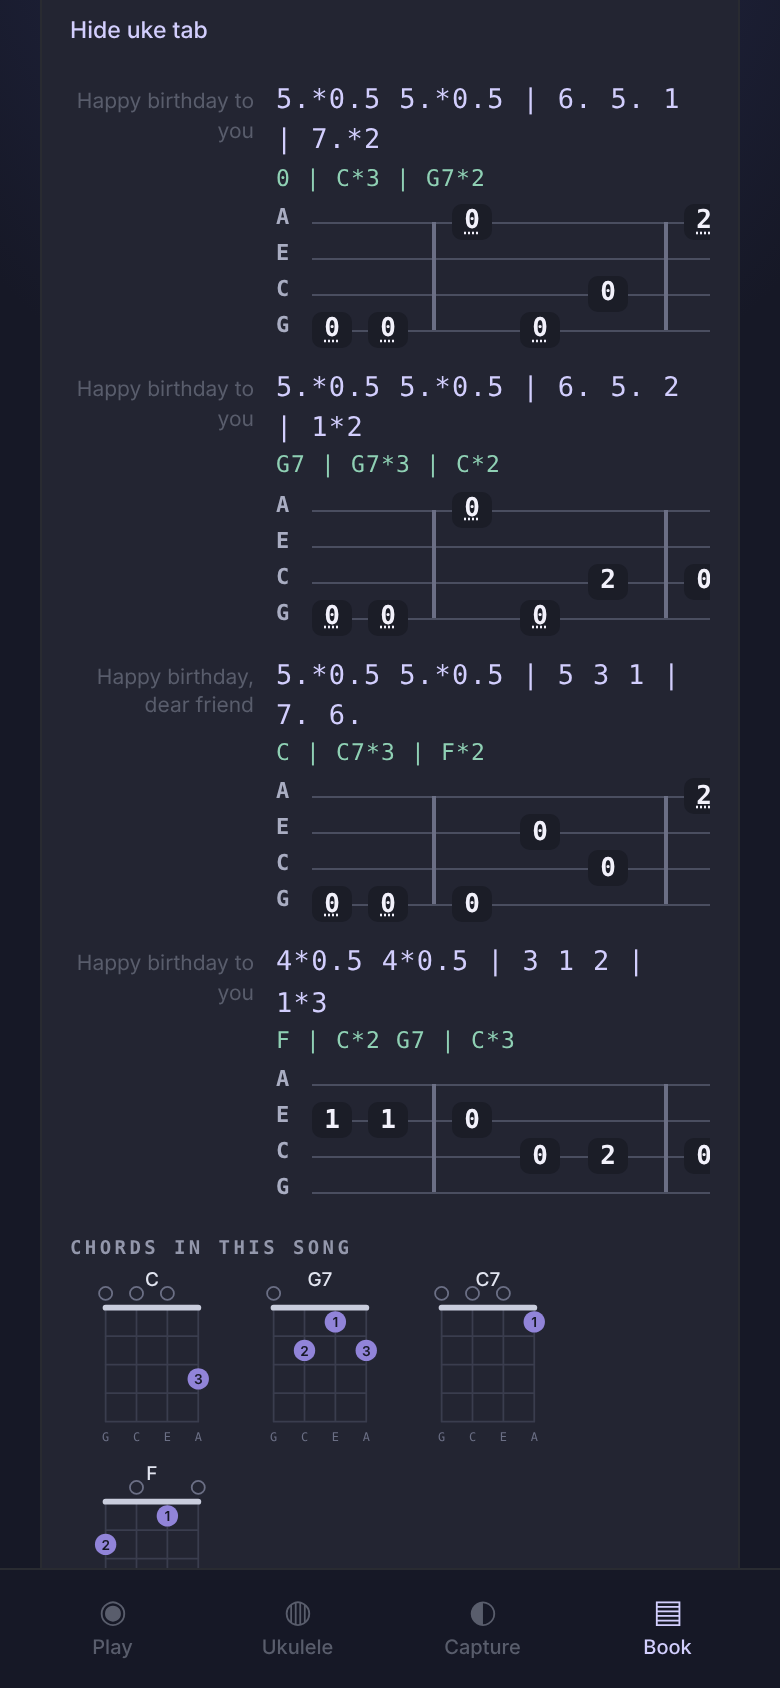
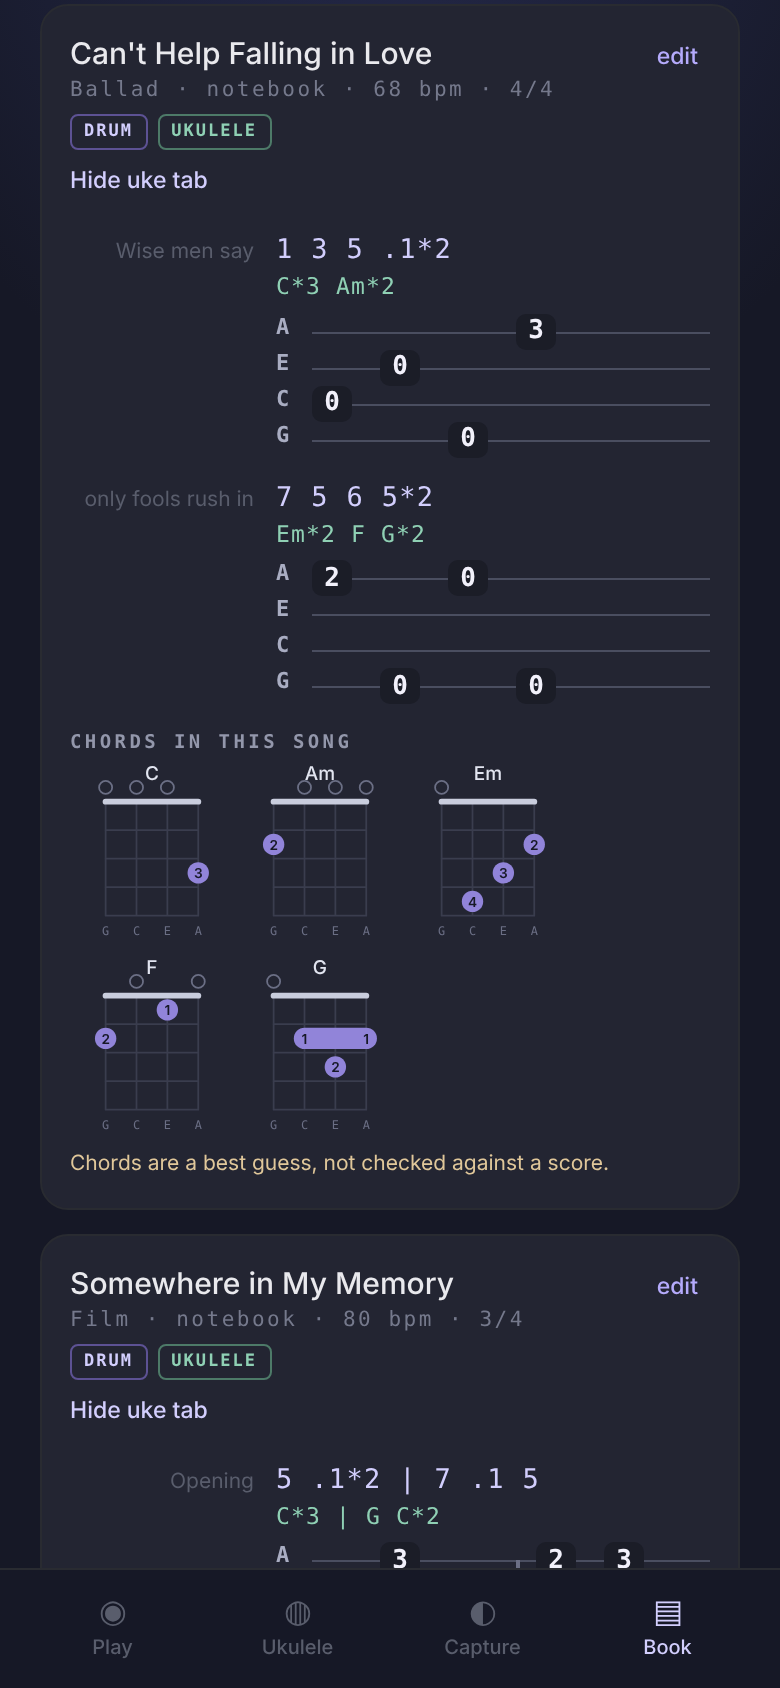
Chords for every song; best-guess chords marked; 'uke' tag becomes 'Chords' (#2)
- Chord lines for the 9 songs that had none. Folk/hymns: Old MacDonald,
  When the Saints, Scarborough Fair, Amazing Grace. Best guesses, flagged
  chordsGuess: Hedwig's Theme, Terminator, Low Rider, Can't Help Falling
  in Love, Somewhere in My Memory.
- Guessed chords show a 'Chords · guess' tag, sit under Needs fixing, and
  say so under the chord boxes and on the play-along.
- The 'uke' tag (has chords) is now 'Chords', and so is the filter. The
  works-on badges are unchanged.
- Tags wrap under the title, so flagged songs keep their title visible.
- Book > Arrangements lists every song, not the first four.
- Smoke test: every song has chords, guesses are marked, old tag gone.
- Screenshots updated; new songbook-chords.png.

diff --git a/index.html b/index.html
@@ -111,8 +111,8 @@ const BUILTIN=[
     L('Twinkle, twinkle, little star','1 1 5 5 | 6 6 5*2','C*4 | F*2 C*2'),L('How I wonder what you are','4 4 3 3 | 2 2 1*2','F*2 C*2 | G7*2 C*2'),
     L('Up above the world so high','5 5 4 4 | 3 3 2*2','C*2 F*2 | C*2 G7*2'),L('Like a diamond in the sky','5 5 4 4 | 3 3 2*2','C*2 F*2 | C*2 G7*2')]},
   {id:'macdonald',title:'Old MacDonald Had a Farm',cat:'Folk',level:1,bpm:96,meter:'4/4',stars:2,lines:[
-    L('Old MacDonald had a farm','1 1 1 5. | 6. 6. 5.*2'),L('E-I-E-I-O','3 3 2 2 | 1*2'),
-    L('And on that farm he had a cow','1 1 1 5. | 6. 6. 5.*2'),L('E-I-E-I-O','3 3 2 2 | 1*2')]},
+    L('Old MacDonald had a farm','1 1 1 5. | 6. 6. 5.*2','C*4 | F*2 C*2'),L('E-I-E-I-O','3 3 2 2 | 1*2','C*2 G7*2 | C*2'),
+    L('And on that farm he had a cow','1 1 1 5. | 6. 6. 5.*2','C*4 | F*2 C*2'),L('E-I-E-I-O','3 3 2 2 | 1*2','C*2 G7*2 | C*2')]},
   {id:'frere',title:'Frère Jacques',cat:'Round',level:1,bpm:100,meter:'4/4',stars:3,lines:[
     L('Frère Jacques','1 2 3 1','C*4'),L('Frère Jacques','1 2 3 1','C*4'),L('Dormez-vous?','3 4 5*2','C*4'),
     L('Sonnez les matines','5*.5 6*.5 5*.5 4*.5 3 1','C*4'),L('Ding, ding, dong','1 5. 1*2','C G7 C*2')]},
@@ -124,20 +124,20 @@ const BUILTIN=[
     L('Jingle bells, jingle bells','3 3 3*2 | 3 3 3*2','C*4 | C*4'),L('Jingle all the way','3 5 1 2 | 3*4','C*4 | C*4'),
     L('Oh what fun it is to ride','4 4 4 4 | 4 3 3 3*.5 3*.5','F*4 | C*4'),L('In a one-horse open sleigh','3 2 2 3 | 2*2 5*2','G7*4 | G7*4')]},
   {id:'saints',title:'When the Saints Go Marching In',cat:'Gospel',level:2,bpm:104,meter:'4/4',stars:2,lines:[
-    L('Oh when the saints','1 3 4 5*2'),L('go marching in','1 3 4 5*2'),L('Oh when the saints go marching in','5 5 4 3 | 3 2 1'),L('Oh how I want to be in that number','3 3 2 1 | 1*2 5*2')]},
+    L('Oh when the saints','1 3 4 5*2','C*5'),L('go marching in','1 3 4 5*2','C*5'),L('Oh when the saints go marching in','5 5 4 3 | 3 2 1','C*4 | C G7 C'),L('Oh how I want to be in that number','3 3 2 1 | 1*2 5*2','C*2 C7*2 | F*2 C*2')]},
   {id:'scarborough',title:'Scarborough Fair',cat:'Dorian folk',level:2,bpm:76,meter:'3/4',stars:1,lines:[
-    L('Are you going','2 2 2*2'),L('to Scarborough Fair','6 6 5 | 2*3'),L('Parsley, sage','4 3 2 | 1*3')]},
+    L('Are you going','2 2 2*2','Dm*4'),L('to Scarborough Fair','6 6 5 | 2*3','Dm*2 C | Dm*3'),L('Parsley, sage','4 3 2 | 1*3','F*3 | C*3')]},
   {id:'amazing',title:'Amazing Grace',cat:'Hymn',level:2,bpm:72,meter:'3/4',stars:2,flag:'adapted',lines:[
-    L('Amazing grace','5. 1*2 3*.5 1*.5 | 3*3'),L('how sweet the sound','2*3 | 1*2 5.'),L('that saved a wretch like me','5. 1*2 3*.5 1*.5 | 3*3')]},
+    L('Amazing grace','5. 1*2 3*.5 1*.5 | 3*3','C*4 | C*3'),L('how sweet the sound','2*3 | 1*2 5.','G7*3 | C*3'),L('that saved a wretch like me','5. 1*2 3*.5 1*.5 | 3*3','C*4 | C*3')]},
   // From the notebook, in A minor: E A C B A E' D' B. The answer lands on G
   // where the film has G sharp, which this drum does not have.
-  {id:'hedwig',title:"Hedwig's Theme",cat:'Film · notebook',level:3,bpm:88,meter:'3/4',pickup:1,stars:1,flag:'adapted',lines:[
-    L('Opening','3 | 6*1.5 .1*.5 7 | 6*2 .3 | .2*3 | 7*2'),L('Answer','3 | 6*1.5 .1*.5 7 | 6*2 5 | 3*3')]},
+  {id:'hedwig',title:"Hedwig's Theme",cat:'Film · notebook',level:3,bpm:88,meter:'3/4',pickup:1,stars:1,flag:'adapted',chordsGuess:true,lines:[
+    L('Opening','3 | 6*1.5 .1*.5 7 | 6*2 .3 | .2*3 | 7*2','0 | Am*3 | Am*3 | Dm*3 | E7*2'),L('Answer','3 | 6*1.5 .1*.5 7 | 6*2 5 | 3*3','0 | Am*3 | Am*2 G | Am*3')]},
   // The melody as the notebook has it; the rhythm is still a guess.
-  {id:'terminator',title:'Terminator theme',cat:'Film · notebook',level:3,bpm:76,meter:'4/4',stars:0,flag:'timing',lines:[
-    L('The figure','6 7 .1*2 | 7 5 1*2'),L('Up high','6 7 .1*2 | 7 5 .3 .2'),L('Home','6 7 .1*2 | 7 5 1*2')]},
-  {id:'lowrider',title:'Low Rider',cat:'Funk · notebook',level:3,bpm:92,meter:'4/4',stars:0,flag:'timing',lines:[
-    L('The hook','7 7 7 7 7 .1 .2 | 5 7 .1 7 5'),L('Again','7 7 7 7 7 .1 .2 | 5 7 .1 7 5'),L('Down on 4','4 4 4 4 4 | 4 4 4 4 4 | 4 5')]},
+  {id:'terminator',title:'Terminator theme',cat:'Film · notebook',level:3,bpm:76,meter:'4/4',stars:0,flag:'timing',chordsGuess:true,lines:[
+    L('The figure','6 7 .1*2 | 7 5 1*2','Am*4 | G*2 Am*2'),L('Up high','6 7 .1*2 | 7 5 .3 .2','Am*4 | G*4'),L('Home','6 7 .1*2 | 7 5 1*2','Am*4 | G*2 Am*2')]},
+  {id:'lowrider',title:'Low Rider',cat:'Funk · notebook',level:3,bpm:92,meter:'4/4',stars:0,flag:'timing',chordsGuess:true,lines:[
+    L('The hook','7 7 7 7 7 .1 .2 | 5 7 .1 7 5','G*12'),L('Again','7 7 7 7 7 .1 .2 | 5 7 .1 7 5','G*12'),L('Down on 4','4 4 4 4 4 | 4 4 4 4 4 | 4 5','F*10 G*2')]},
   // Public domain. The one F above the top pad, on "heav-en-ly", is played as
   // E: this drum stops at E5 — the notebook boxes that note for the same reason.
   {id:'silent',title:'Silent Night (Stille Nag)',cat:'Christmas · notebook',level:2,bpm:66,meter:'3/4',stars:0,flag:'adapted',lines:[
@@ -157,10 +157,10 @@ const BUILTIN=[
     L('Up to 6 again','1 2 3 | 4*3 6*2','C*3 | F*5'),
     L('Down home','6 5 4 | 3*3 1*2','F*3 | C*5'),
     L('Last line','1 2 3 | 4*2 2 2 | 3*2 1*4','C*3 | G7*4 | C*6')]},
-  {id:'cant',title:"Can't Help Falling in Love",cat:'Ballad · notebook',level:3,bpm:68,meter:'4/4',stars:1,flag:'timing',lines:[
-    L('Wise men say','1 3 5 .1*2'),L('only fools rush in','7 5 6 5*2')]},
-  {id:'homealone',title:'Somewhere in My Memory',cat:'Film · notebook',level:3,bpm:80,meter:'3/4',stars:0,flag:'timing',lines:[
-    L('Opening','5 .1*2 | 7 .1 5'),L('Answer','6 5*2 | 3*3')]}
+  {id:'cant',title:"Can't Help Falling in Love",cat:'Ballad · notebook',level:3,bpm:68,meter:'4/4',stars:1,flag:'timing',chordsGuess:true,lines:[
+    L('Wise men say','1 3 5 .1*2','C*3 Am*2'),L('only fools rush in','7 5 6 5*2','Em*2 F G*2')]},
+  {id:'homealone',title:'Somewhere in My Memory',cat:'Film · notebook',level:3,bpm:80,meter:'3/4',stars:0,flag:'timing',chordsGuess:true,lines:[
+    L('Opening','5 .1*2 | 7 .1 5','C*3 | G C*2'),L('Answer','6 5*2 | 3*3','F G*2 | C*3')]}
 ];
 /* The book as shown: the built-ins, your corrections in their place, then
    the songs that are only yours. Rebuilt by App.refreshSongs(). */
@@ -248,7 +248,7 @@ const App = {
   refreshSongs(){
     const hydrate=x=>Object.assign({},x,{stars:x.stars||0,lines:x.lines.map(l=>L(l.label,l.notes,l.chords))});
     SONGS=MF_SONGBOOK.merge(BUILTIN,this.saved||[]).map(e=>
-      e.edited? Object.assign(hydrate(e.song),{edited:true,stars:e.original.stars,flag:e.original.flag})
+      e.edited? Object.assign(hydrate(e.song),{edited:true,stars:e.original.stars,flag:e.original.flag,chordsGuess:e.original.chordsGuess})
       : e.custom? Object.assign(hydrate(e.song),{custom:true})
       : e.song);
     this._plan=null;
@@ -771,11 +771,11 @@ const App = {
 
   screenLibrary(){
     const st=this.state, s=this.song();
-    const filters=[['all','All'],['uke','Ukulele'],['mine','Mine'],['fix','Needs fixing'],['l1','Level 1'],['l2','Level 2'],['christmas','Christmas'],['film','Film']];
+    const filters=[['all','All'],['uke','Chords'],['mine','Mine'],['fix','Needs fixing'],['l1','Level 1'],['l2','Level 2'],['christmas','Christmas'],['film','Film']];
     const rows=SONGS.filter(x=> st.filter==='all'?true
         : st.filter==='uke'?this.hasUke(x)
         : st.filter==='mine'?!!(x.custom||x.edited)
-        : st.filter==='fix'?!!x.flag
+        : st.filter==='fix'?!!(x.flag||x.chordsGuess)
         : st.filter==='l1'?x.level===1
         : st.filter==='l2'?x.level===2
         : x.cat.toLowerCase().indexOf(st.filter)>=0);
@@ -811,15 +811,15 @@ const App = {
           const stars='★★★☆☆☆'.slice(3-x.stars,6-x.stars);
           const tag=(t,bc,fg)=>`<span style="flex:none;font:600 8.5px ui-monospace,Menlo,monospace;letter-spacing:.12em;text-transform:uppercase;padding:3px 6px;border-radius:var(--radius-sm);border:1px solid ${bc};color:${fg}">${t}</span>`;
           const flag=(x.flag?tag(x.flag,x.flag==='timing'?'#7a6a4a':'#5d5294',x.flag==='timing'?'#e0c79a':'#d2cefd'):'')
-            +(this.hasUke(x)?tag('uke','#4d7a68','#8fd0b4'):'')+MF_TAB.badges(x)
+            +(this.hasUke(x)?(x.chordsGuess?tag('Chords · guess','#7a6a4a','#e0c79a'):tag('Chords','#4d7a68','#8fd0b4')):'')+MF_TAB.badges(x)
             +(x.custom?tag('mine','#595d6c','#b2b6ca'):x.edited?tag('edited','#595d6c','#b2b6ca'):'');
           return `<button data-act="openSong" data-id="${x.id}" style="width:100%;display:flex;align-items:center;gap:11px;text-align:left;padding:11px 12px;border-radius:var(--radius-md);border:1px solid var(--color-neutral-900);background:var(--color-surface);color:inherit;cursor:pointer">
             <div style="flex:none;width:34px;height:34px;border-radius:var(--radius-sm);display:grid;place-items:center;background:var(--color-bg);border:1px solid var(--color-neutral-800);font:600 11px ui-monospace,Menlo,monospace;color:var(--color-accent-300)">${x.lines.length}</div>
             <div style="flex:1;min-width:0">
               <div style="font:500 13.5px/1.25 Inter,sans-serif;white-space:nowrap;overflow:hidden;text-overflow:ellipsis">${esc(x.title)}</div>
               <div style="font:400 11px Inter,sans-serif;color:var(--color-neutral-600);margin-top:3px;white-space:nowrap;overflow:hidden;text-overflow:ellipsis">${esc(x.cat)} · ${x.bpm} bpm · ${x.lines.length} lines</div>
+              <div style="display:flex;flex-wrap:wrap;gap:4px;margin-top:6px">${flag}</div>
             </div>
-            ${flag}
             <span style="flex:none;font:400 11px Inter,sans-serif;letter-spacing:1.5px;color:var(--color-neutral-700)">${stars}</span>
           </button>`;
         }).join('')}
@@ -936,7 +936,7 @@ const App = {
     const restore=s.edited?`<button data-act="restoreSong" style="border:0;background:none;color:var(--color-neutral-600);font:500 11px Inter,sans-serif;cursor:pointer;padding:6px 2px 0">Edited · restore the original</button>`:'';
     const bdg=`<div style="display:flex;gap:5px;justify-content:center;flex-wrap:wrap;margin-top:8px">${MF_TAB.badges(s)}</div>`;
     if(!this.hasUke(s)) return bdg+(restore?`<div style="text-align:center">${restore}</div>`:'');
-    return bdg+`<div style="display:flex;gap:5px;margin-top:11px;padding:3px;border-radius:var(--radius-md);background:#292b31;border:1px solid var(--color-neutral-800)">${
+    return bdg+this.guessNote(s,'center')+`<div style="display:flex;gap:5px;margin-top:11px;padding:3px;border-radius:var(--radius-md);background:#292b31;border:1px solid var(--color-neutral-800)">${
       this.seg([['drum','Tongue drum',30,12],['ukulele','Ukulele',30,12]],st.inst==='ukulele'?'ukulele':'drum','playInst')}</div>${restore?`<div style="text-align:center">${restore}</div>`:''}`;
   },
 
@@ -1294,6 +1294,12 @@ const App = {
     </div>`;
   },
 
+  /* Chords worked out by ear for a notebook fragment, not taken from a
+     score: said wherever the chords are shown, so nobody learns them as gospel. */
+  guessNote(x,align){
+    if(!x||!x.chordsGuess||!this.hasUke(x)) return '';
+    return `<div style="font:400 10.5px/1.4 Inter,sans-serif;color:#e0c79a;margin-top:6px;text-align:${align||'left'}">Chords are a best guess, not checked against a score.</div>`;
+  },
   /* Every chord a song uses, as the chart shape, side by side. */
   chordBoxes(x){
     if(!this.hasUke(x)) return '';
@@ -1301,7 +1307,7 @@ const App = {
     const names=[...new Set(x.lines.flatMap(l=>(l.chords||[]).filter(e=>!e.bar&&!e.rest).map(e=>e.tok)))];
     const boxes=names.map(n=>{ const sh=uke.shapesFor(n)[0]; return sh?`<div data-act="hearChord" data-v="${esc(n)}" style="width:76px;cursor:pointer">${MF_FRETBOARD_VIEW.chord(sh,{label:n})}</div>`:''; }).join('');
     return `<div style="margin-top:10px;font:600 9.5px ui-monospace,Menlo,monospace;letter-spacing:.18em;text-transform:uppercase;color:var(--color-neutral-500)">Chords in this song</div>
-      <div style="display:flex;flex-wrap:wrap;gap:8px;margin-top:6px">${boxes}</div>`;
+      <div style="display:flex;flex-wrap:wrap;gap:8px;margin-top:6px">${boxes}</div>${this.guessNote(x)}`;
   },
   screenBook(){
     const st=this.state;
@@ -1309,7 +1315,7 @@ const App = {
     let body='';
     if(st.book==='score'){
       body=`<div style="display:flex;flex-direction:column;gap:12px;margin-top:15px">
-        ${SONGS.slice(0,4).map(x=>`<div style="padding:14px;border-radius:var(--radius-lg);border:1px solid var(--color-neutral-900);background:var(--color-surface)">
+        ${SONGS.map(x=>`<div style="padding:14px;border-radius:var(--radius-lg);border:1px solid var(--color-neutral-900);background:var(--color-surface)">
           <div style="display:flex;align-items:baseline;justify-content:space-between;gap:10px">
             <div style="font:500 15px Inter,sans-serif">${esc(x.title)}</div>
             <button data-act="scoreEdit" data-id="${x.id}" style="border:0;background:none;color:var(--color-accent-400);font:500 11.5px Inter,sans-serif;cursor:pointer;flex:none">edit</button>

diff --git a/README.md b/README.md
@@ -21,7 +21,7 @@ arrangement editable.
 
 | Tab | What it does |
 |---|---|
-| **Play** | The songbook (library) → a practice screen: next note huge, the whole line as a scrolling ribbon with a moving beat marker, and the pad lit on the drum. Three modes — **Notes only** (steady even pulse), **With rhythm** (real durations), and **On your own** (guided practice: nothing auto-plays — the next note lights up and you advance by tapping the correct pad yourself; *Listen* still plays it for you). Tempo, previous/next line. Songs with chords (tagged **uke**, and a *Ukulele* filter) switch to the ukulele play-along — see below. |
+| **Play** | The songbook (library) → a practice screen: next note huge, the whole line as a scrolling ribbon with a moving beat marker, and the pad lit on the drum. Three modes — **Notes only** (steady even pulse), **With rhythm** (real durations), and **On your own** (guided practice: nothing auto-plays — the next note lights up and you advance by tapping the correct pad yourself; *Listen* still plays it for you). Tempo, previous/next line. Songs with chords (tagged **Chords**, and a *Chords* filter; every song has them now) switch to the ukulele play-along — see below. |
 | **Drum** | The virtual drum — Free play, Improvise (drone + pentatonic lifted forward), and Layout. Rotate the wheel; tap any pad to hear it. |
 | **Capture** | Play, hum or whistle a phrase into the phone's microphone → the notes, their lengths and the tempo, as a draft that lands in the editor and can be saved to the book. |
 | **Book** | Every arrangement written out with its chords, **Your songs** (what you have written or corrected, and a saved copy of the whole book), and the decision register (in / adapted / corrected / out / queued, each with its reason). |
@@ -83,9 +83,16 @@ practice screen from *Tongue drum* to *Ukulele*:
   **Listen** strums it for you. **On your own** waits: make the shape, strum it,
   tap it, and it moves to the next change.
 
-Chords are in: Happy Birthday, You Are My Sunshine, Silent Night, Twinkle
-Twinkle, Frère Jacques (one chord — the place to start), Ode to Joy and Jingle
-Bells. The timing is worked out in
+Every song has chords. Frère Jacques is one chord, the place to start; the
+folk songs and hymns use C, F, G7 and C7 (Scarborough Fair: Dm, C, F).
+The five notebook fragments (Hedwig's Theme, Terminator, Low Rider, Can't Help
+Falling in Love, Somewhere in My Memory) have **best-guess chords**, worked
+out from the notes rather than a score. They carry `chordsGuess: true`, show a
+**Chords · guess** tag in the list, sit under *Needs fixing*, and say so
+under their chord boxes and on the play-along. The *works on* badges are
+unchanged: a song that is not ideal on the uke still has its chords and tab,
+with the badge. **Book → Arrangements** now lists every song, not the first
+four. The timing is worked out in
 `playalong.js`; a chord line that does not add up to its melody line is reported
 on the screen and fails the smoke test.
 
